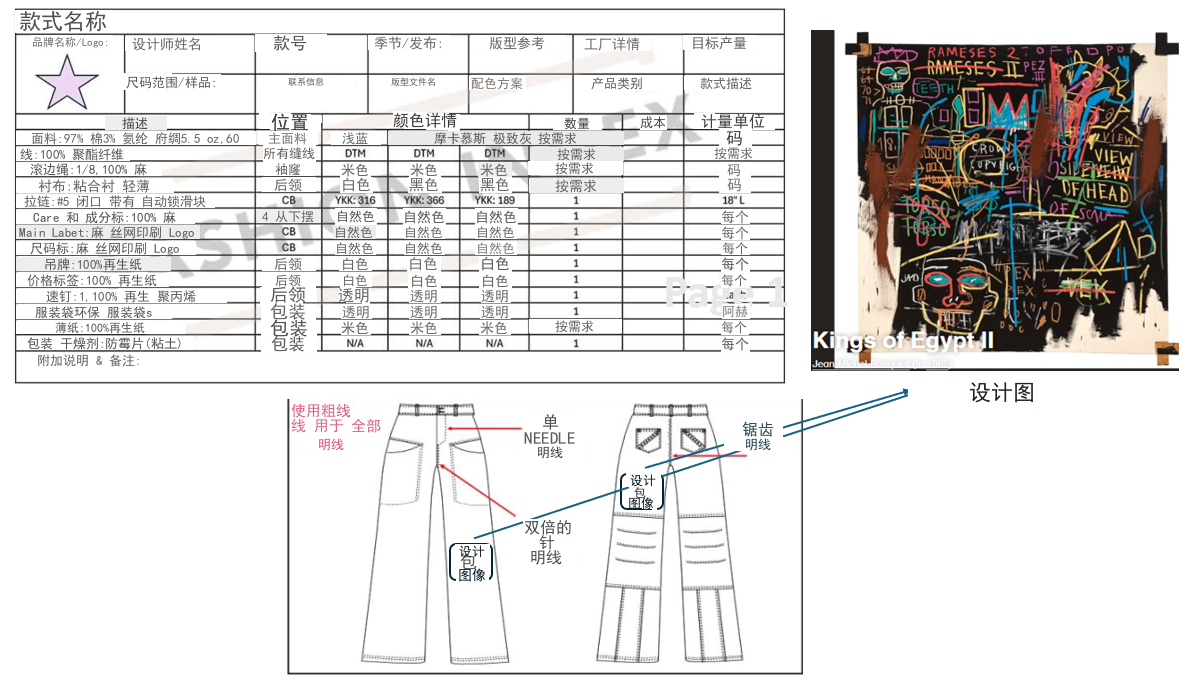
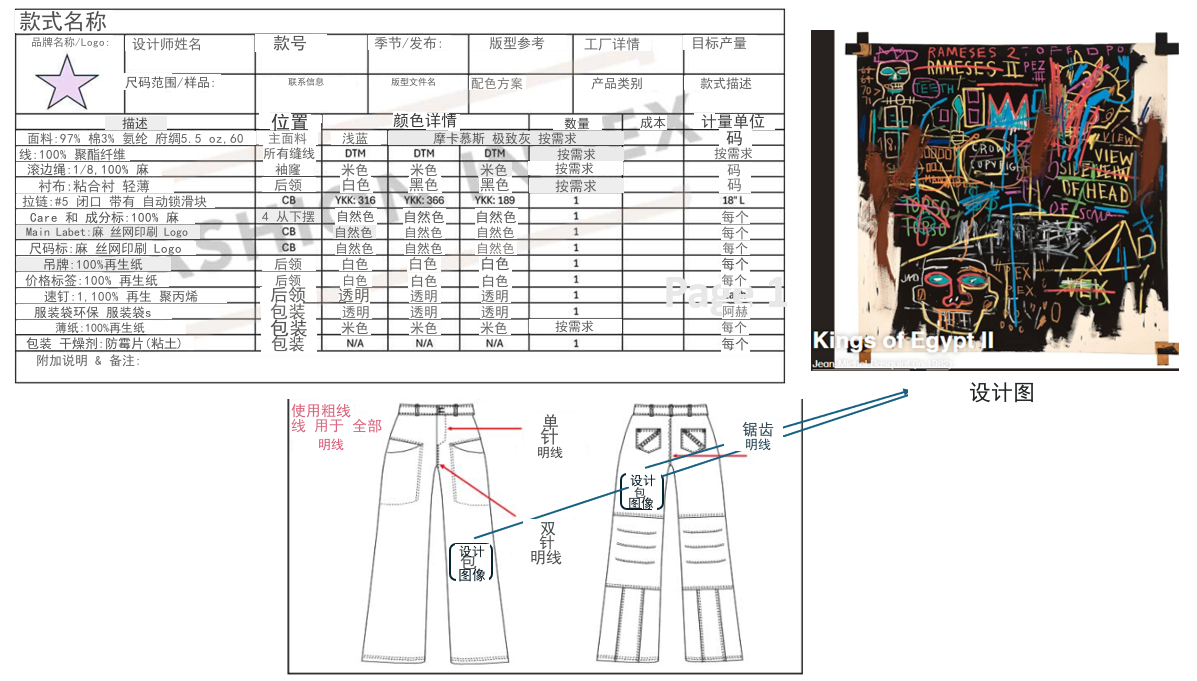
Added persistent model caching in Docker Compose to prevent repeated downloads

diff --git a/src/translator.py b/src/translator.py
@@ -82,22 +82,32 @@ class GoogleTranslateBackend(TranslationBackend):
             target = "zh-cn" if target_lang.lower() == "zh-cn" else target_lang
             source = "en" if source_lang.lower() == "en" else source_lang
             
-            # googletrans 4.0.0-rc1+ usually returns a coroutine, but check for safety
-            coro = self.translator.translate(text, src=source, dest=target)
+            # Step 1: Attempt the translation
+            # googletrans 4.0.0-rc1 is inconsistent across environments
+            result = self.translator.translate(text, src=source, dest=target)
             
-            # Use inspect or just check if it's awaitable
+            # Step 2: Extract result defensively
+            # If it's a coroutine/awaitable, we must run it in the loop
             import inspect
-            if inspect.isawaitable(coro):
-                result = self._loop.run_until_complete(coro)
-            else:
-                result = coro
+            if inspect.isawaitable(result):
+                try:
+                    result = self._loop.run_until_complete(result)
+                except Exception as loop_err:
+                    logger.warning(f"Failed to run Google Translate coroutine: {loop_err}")
+                    # If it failed but the object has .text, use it anyway (some forks)
+                    if not hasattr(result, 'text'):
+                        return text
             
-            translated_text = result.text
-            if translated_text and translated_text != text:
-                logger.debug(f"Google Translate success: '{text[:20]}...' -> '{translated_text[:20]}...'")
-            return translated_text
+            # Step 3: Verify we have a result object with a 'text' attribute
+            if hasattr(result, 'text'):
+                translated_text = result.text
+                if translated_text and translated_text != text:
+                    logger.debug(f"Google Translate success: '{text[:20]}...' -> '{translated_text[:20]}...'")
+                return translated_text
+            
+            return text
         except Exception as e:
-            logger.warning(f"Google Translate API timeout/error: {e}. Falling back to DeepL API...")
+            logger.warning(f"Google Translate API failed: {e}. Falling back to DeepL API...")
             return text
 
 
@@ -519,7 +529,21 @@ class OfflineGlossaryBackend(TranslationBackend):
         "height": "高度",
         "depth": "深度",
         "diameter": "直径",
+        "width": "宽度",
+        "length": "长度",
+        "height": "高度",
+        "depth": "深度",
+        "diameter": "直径",
         "circumference": "周长",
+        
+        # Capitalized versions for fragmented OCR
+        "NEEDLE": "针",
+        "THREAD": "线",
+        "STITCHING": "缝合",
+        "DOUBLE": "双",
+        "SINGLE": "单",
+        "TOPSTITCH": "明线",
+        "TOPSTITCHING": "明线",
         
         # Design pack
         "design pack image": "设计图",
